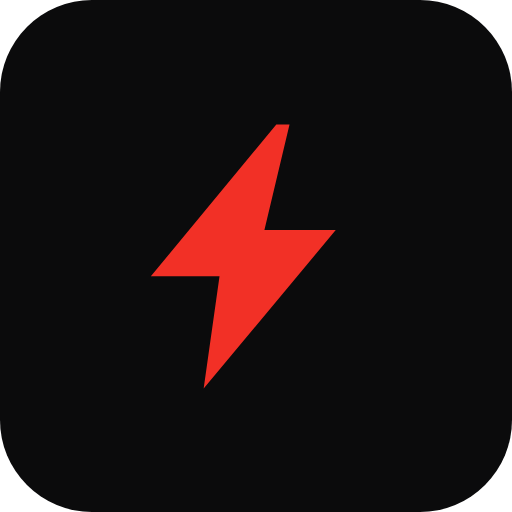
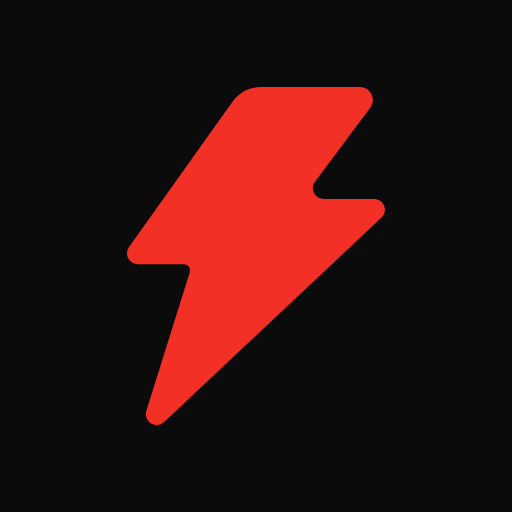
Usa a Tanker e o logotipo oficial da ARS Team

diff --git a/src/components/logo.tsx b/src/components/logo.tsx
@@ -1,0 +1,20 @@
+// Logotipo oficial da ARS Team (raio vermelho + tipografia da marca),
+// extraido do site publicado em arsteam.vercel.app. O raio mantem o vermelho
+// da marca e as letras seguem a cor do texto, entao funciona em fundo claro e escuro.
+export function Logo({ className = "" }: { className?: string }) {
+  return (
+    <svg
+      viewBox="0 0 824 359"
+      role="img"
+      aria-label="ARS Team"
+      className={className}
+    >
+      <path d="M367.607 162.12L370.541 168.941H317.05L315.695 165.985L291.094 106.185L274.844 66.3941L267.847 49.5682H260.85L254.079 66.3941L237.603 106.185L213.002 165.985L211.648 168.941H158.382L161.091 162.12L185.692 102.32L202.168 62.5287L210.293 42.7469L226.77 2.9559L227.898 0H300.799L302.153 2.9559L318.404 42.7469L326.529 62.5287L343.005 102.32L367.607 162.12ZM600.476 168.941H530.735L491.237 129.15H435.489V168.941H386.287V0H537.506C541.794 0 546.083 0.454748 550.145 1.36426C552.177 1.81902 553.982 2.50114 556.013 3.18328C557.819 3.63803 559.625 4.54754 561.43 5.22967C562.559 5.91181 563.687 6.59393 564.816 7.04869C566.396 8.18558 568.201 9.09509 569.781 10.232C570.684 10.9141 571.812 11.8236 572.715 12.5057C579.938 18.4175 585.354 25.6936 588.966 34.1066C589.417 35.2435 590.094 36.6077 590.32 37.7446C590.997 39.791 591.674 41.61 592.125 43.6564C593.028 47.7492 593.48 52.0694 593.48 56.3895V84.5843C593.48 105.503 579.035 123.238 559.85 128.013L600.476 168.941ZM544.277 50.4777C542.923 50.023 541.343 49.5682 539.989 49.5682H435.489V79.582H539.989C541.343 79.582 542.923 79.1272 544.277 78.6725V50.4777ZM823.588 49.5682H665.598V64.1203H823.588V168.941H616.395V119.373H774.386V104.366H616.395V0H823.588V49.5682Z" fill="currentColor"/>
+      <path d="M66.7673 194.763C69.7553 184.986 62.4421 175.104 52.219 175.104H29.1088C16.8228 175.104 9.60487 161.293 16.6195 151.206L117.234 6.52706C120.077 2.43804 124.743 0 129.723 0H259.398L196.333 86.4528C189 96.5054 196.18 110.631 208.623 110.631H236.797C250.489 110.631 257.211 127.305 247.348 136.802L58.809 318.333C47.5048 329.217 29.1229 317.936 33.7094 302.928L66.7673 194.763Z" fill="#f23026"/>
+      <path d="M63.353 190.059H242.013V233.431H173.896V337.882H131.47V233.431H63.353V190.059Z" fill="currentColor"/>
+      <path d="M434.541 233.431H298.308V245.169H434.541V282.374H298.308V294.51H434.541V337.882H255.881V190.059H434.541V233.431Z" fill="currentColor"/>
+      <path d="M628.821 331.914L631.351 337.882H585.226L584.058 335.296L562.845 282.971L548.832 248.154L542.799 233.431H536.766L530.927 248.154L516.72 282.971L495.507 335.296L494.339 337.882H448.409L450.745 331.914L471.958 279.589L486.165 244.771L493.171 227.462L507.379 192.645L508.352 190.059H571.214L572.381 192.645L586.394 227.462L593.4 244.771L607.607 279.589L628.821 331.914Z" fill="currentColor"/>
+      <path d="M782.718 190.059H823.588V337.882H780.967V253.327L753.526 281.379H714.018L687.355 254.122V337.882H644.928V190.059H687.355L720.246 226.07L733.869 239.997L747.298 226.07L781.551 191.253L782.718 190.059Z" fill="currentColor"/>
+    </svg>
+  );
+}

diff --git a/src/app/entrar/acoes.ts b/src/app/entrar/acoes.ts
@@ -9,12 +9,12 @@ export type EstadoForm = { erro?: string; aviso?: string };
 /** Deixa as mensagens do Supabase em portugues e sem jargao. */
 function traduzir(mensagem: string): string {
   const m = mensagem.toLowerCase();
-  if (m.includes("invalid login credentials")) return "E-mail ou senha nao conferem.";
-  if (m.includes("email not confirmed")) return "Confirme o e-mail antes de entrar. O link foi enviado para voce.";
+  if (m.includes("invalid login credentials")) return "E-mail ou senha não conferem.";
+  if (m.includes("email not confirmed")) return "Confirme o e-mail antes de entrar. O link foi enviado para você.";
   if (m.includes("user already registered")) return "Ja existe uma conta com esse e-mail. Tente entrar.";
   if (m.includes("password should be at least")) return "A senha precisa de pelo menos 6 caracteres.";
   if (m.includes("rate limit") || m.includes("too many")) return "Muitas tentativas seguidas. Espere um minuto e tente de novo.";
-  return "Nao deu para concluir agora. Tente de novo em instantes.";
+  return "Não deu para concluir agora. Tente de novo em instantes.";
 }
 
 export async function entrar(
@@ -67,7 +67,7 @@ export async function cadastrar(
   } = await supabase.auth.getUser();
 
   if (!quemPede) {
-    return { erro: "Cadastro fechado. Peca para o Allisson liberar seu acesso." };
+    return { erro: "Cadastro fechado. Peça para o Allisson liberar seu acesso." };
   }
 
   const { data: perfilDeQuemPede } = await supabase
@@ -77,7 +77,7 @@ export async function cadastrar(
     .single();
 
   if (perfilDeQuemPede?.tipo !== "admin") {
-    return { erro: "Cadastro fechado. Peca para o Allisson liberar seu acesso." };
+    return { erro: "Cadastro fechado. Peça para o Allisson liberar seu acesso." };
   }
 
   const { data, error } = await supabase.auth.signUp({

diff --git a/src/app/layout.tsx b/src/app/layout.tsx
@@ -1,15 +1,21 @@
 import type { Metadata, Viewport } from "next";
-import { Anton, Hanken_Grotesk } from "next/font/google";
+import localFont from "next/font/local";
+import { Hanken_Grotesk } from "next/font/google";
 import "./globals.css";
 
-// Anton entra como substituta da Tanker, que e a fonte oficial de titulos da marca.
-// Para trocar pela Tanker de verdade, use next/font/local apontando para Tanker-Regular.otf.
-const display = Anton({
+// Tanker e a fonte oficial de titulos da ARS Team. O arquivo mora em
+// src/fonts e vem do mesmo .otf usado no site arsteam.vercel.app.
+const display = localFont({
+  src: "../fonts/Tanker-Regular.woff2",
   weight: "400",
-  subsets: ["latin"],
+  style: "normal",
+  display: "swap",
   variable: "--fonte-display",
+  fallback: ["Impact", "sans-serif"],
 });
 
+// Corpo: a marca usa Asterisk Sans (Typekit). Hanken Grotesk fica como
+// substituta aprovada, por ser gratuita e de desenho proximo.
 const corpo = Hanken_Grotesk({
   subsets: ["latin"],
   variable: "--fonte-corpo",
@@ -17,7 +23,7 @@ const corpo = Hanken_Grotesk({
 
 export const metadata: Metadata = {
   title: "ARS Team",
-  description: "Area do aluno e painel do treinador da ARS Team.",
+  description: "Área do aluno e painel do treinador da ARS Team.",
   manifest: "/manifest.webmanifest",
   appleWebApp: { capable: true, statusBarStyle: "black-translucent", title: "ARS Team" },
 };

diff --git a/src/app/entrar/page.tsx b/src/app/entrar/page.tsx
@@ -1,7 +1,7 @@
 "use client";
 
 import { useActionState } from "react";
-import { Raio } from "@/components/raio";
+import { Logo } from "@/components/logo";
 import { entrar, type EstadoForm } from "./acoes";
 
 const INICIAL: EstadoForm = {};
@@ -20,11 +20,9 @@ export default function Entrar() {
     <main className="flex min-h-dvh flex-col items-center justify-center px-5 py-12">
       <div className="w-full max-w-sm">
         <div className="mb-9 flex flex-col items-center text-center">
-          <Raio className="mb-3 h-11 w-11 text-raio" />
-          <h1 className="font-display text-4xl uppercase tracking-wide text-papel">
-            ARS Team
-          </h1>
-          <p className="mt-2 text-sm text-nevoa">
+          <h1 className="sr-only">ARS Team</h1>
+          <Logo className="h-14 w-auto text-papel" />
+          <p className="mt-4 text-sm text-nevoa">
             Entre para ver seu treino da semana.
           </p>
         </div>
@@ -78,7 +76,7 @@ export default function Entrar() {
         </form>
 
         <p className="mt-6 text-center text-xs leading-relaxed text-nevoa">
-          Ainda nao tem acesso? Fale com o Allisson para receber seu convite.
+          Ainda não tem acesso? Fale com o Allisson para receber seu convite.
         </p>
 
         <p className="mt-8 text-center text-xs leading-relaxed text-nevoa">

diff --git a/src/components/raio.tsx b/src/components/raio.tsx
@@ -1,8 +1,9 @@
+// Raio oficial da marca ARS Team, o mesmo vetor usado no site arsteam.vercel.app.
 export function Raio({ className = "" }: { className?: string }) {
   return (
-    <svg viewBox="0 0 24 24" aria-hidden="true" className={className}>
+    <svg viewBox="0 0 371 486" aria-hidden="true" className={className}>
       <path
-        d="M13.5 2 4 13.5h5.2L8 22l10-12h-5.4l1.9-8z"
+        d="M90.2951 266.361C92.0854 260.642 87.7929 254.834 81.7756 254.834H15.6464C2.9668 254.834 -4.4288 240.587 2.90568 230.29L151.999 20.9758C161.371 7.8185 176.567 0 192.769 0H334.785C350.196 0 359.021 17.4857 349.824 29.7958L270.342 136.174C262.678 146.432 270.032 161.004 282.875 161.004H355.35C369.482 161.004 376.348 178.2 366.073 187.859L53.517 481.674C41.8282 492.662 23.099 481.022 27.8821 465.742L90.2951 266.361Z"
         fill="currentColor"
       />
     </svg>

diff --git a/src/app/app/layout.tsx b/src/app/app/layout.tsx
@@ -1,4 +1,4 @@
-import { Raio } from "@/components/raio";
+import { Logo } from "@/components/logo";
 
 export default function LayoutApp({
   children,
@@ -7,10 +7,7 @@ export default function LayoutApp({
     <div className="min-h-dvh">
       <header className="sticky top-0 z-40 border-b border-linha bg-tinta/85 backdrop-blur">
         <div className="mx-auto flex max-w-3xl items-center gap-2.5 px-5 py-3.5">
-          <Raio className="h-5 w-5 text-raio" />
-          <span className="font-display text-lg uppercase tracking-wide">
-            ARS Team
-          </span>
+          <Logo className="h-6 w-auto text-papel" />
           <form action="/auth/sair" method="post" className="ml-auto">
             <button
               type="submit"

diff --git a/README.md b/README.md
@@ -104,10 +104,23 @@ Regras que valem para sempre neste projeto:
 
 ## Fontes
 
-Títulos usam **Anton** como substituta da **Tanker**, que é a fonte oficial da
-marca. Para trocar pela real, coloque `Tanker-Regular.otf` em `src/fontes/` e
-use `next/font/local` em `src/app/layout.tsx`. O corpo usa **Hanken Grotesk**,
-que é o fallback já decidido para a Asterisk Sans.
+Títulos usam a **Tanker** de verdade, a fonte oficial da marca. O arquivo fica
+em `src/fonts/Tanker-Regular.woff2` e é carregado com `next/font/local` no
+`src/app/layout.tsx`. É o mesmo desenho usado no site `arsteam.vercel.app`,
+convertido de `.otf` para `.woff2` (metade do peso, mesma cobertura de acentos).
+
+O corpo usa **Hanken Grotesk**, que é o fallback já decidido para a Asterisk
+Sans (Typekit), então não precisa de licença nova.
+
+## Logo
+
+`src/components/logo.tsx` tem o logotipo oficial em SVG (raio vermelho mais a
+tipografia da marca). O raio fica travado em `#f23026` e as letras seguem
+`currentColor`, então o mesmo componente serve em fundo escuro e claro. Use
+sempre ele no lugar de escrever "ARS Team" como texto.
+
+`src/components/raio.tsx` tem só o raio, para ícone e favicon. Os PNGs do PWA
+em `public/` e `src/app/` são gerados a partir dele.
 
 ## Estrutura
 
